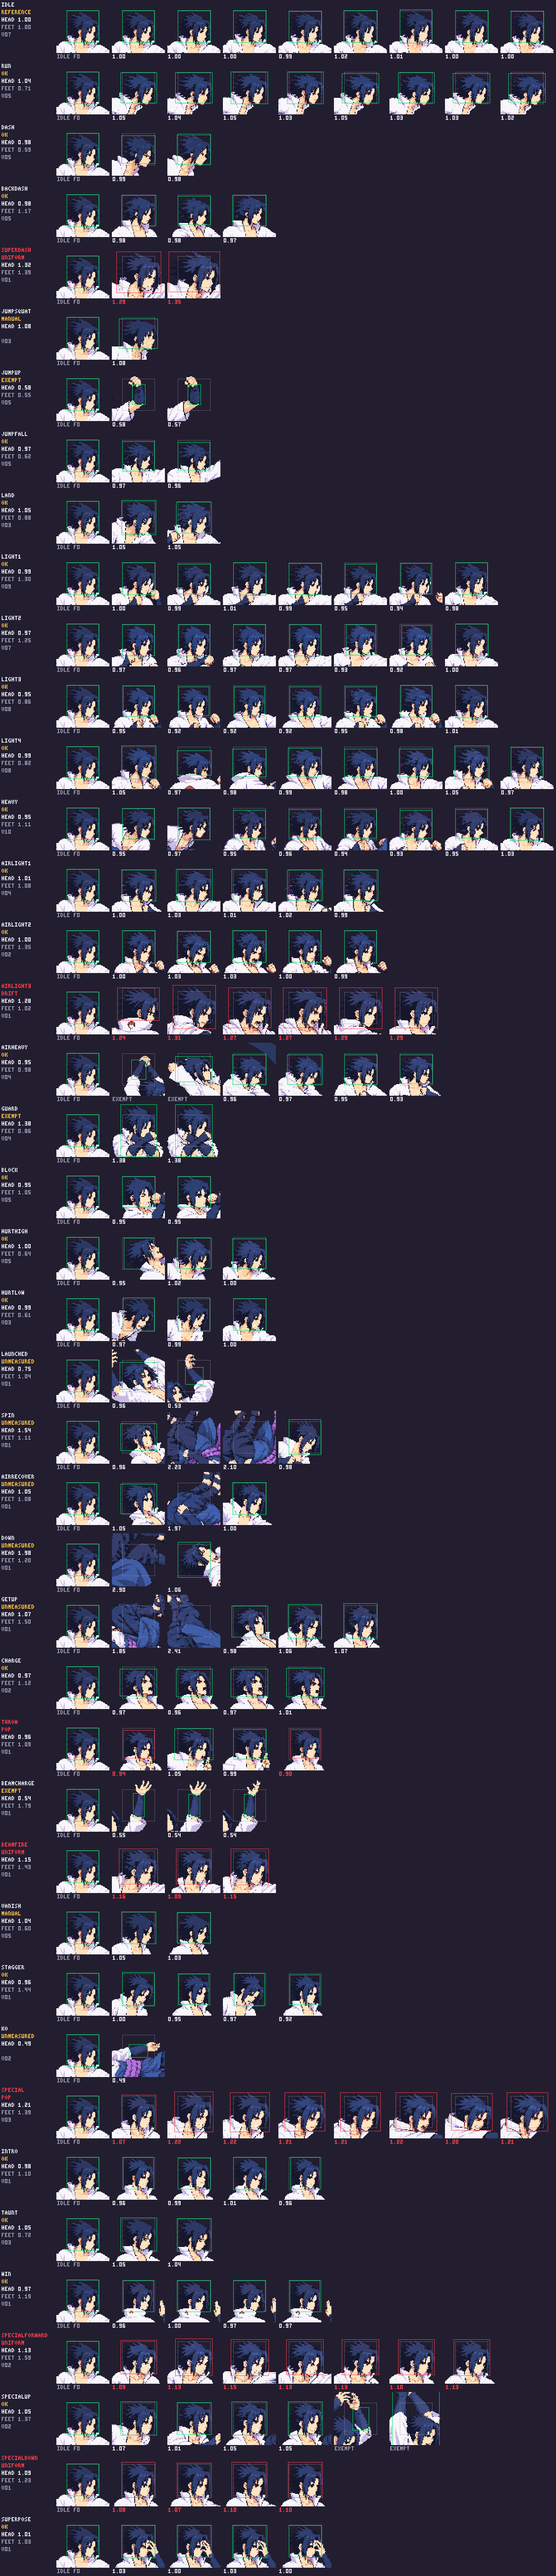
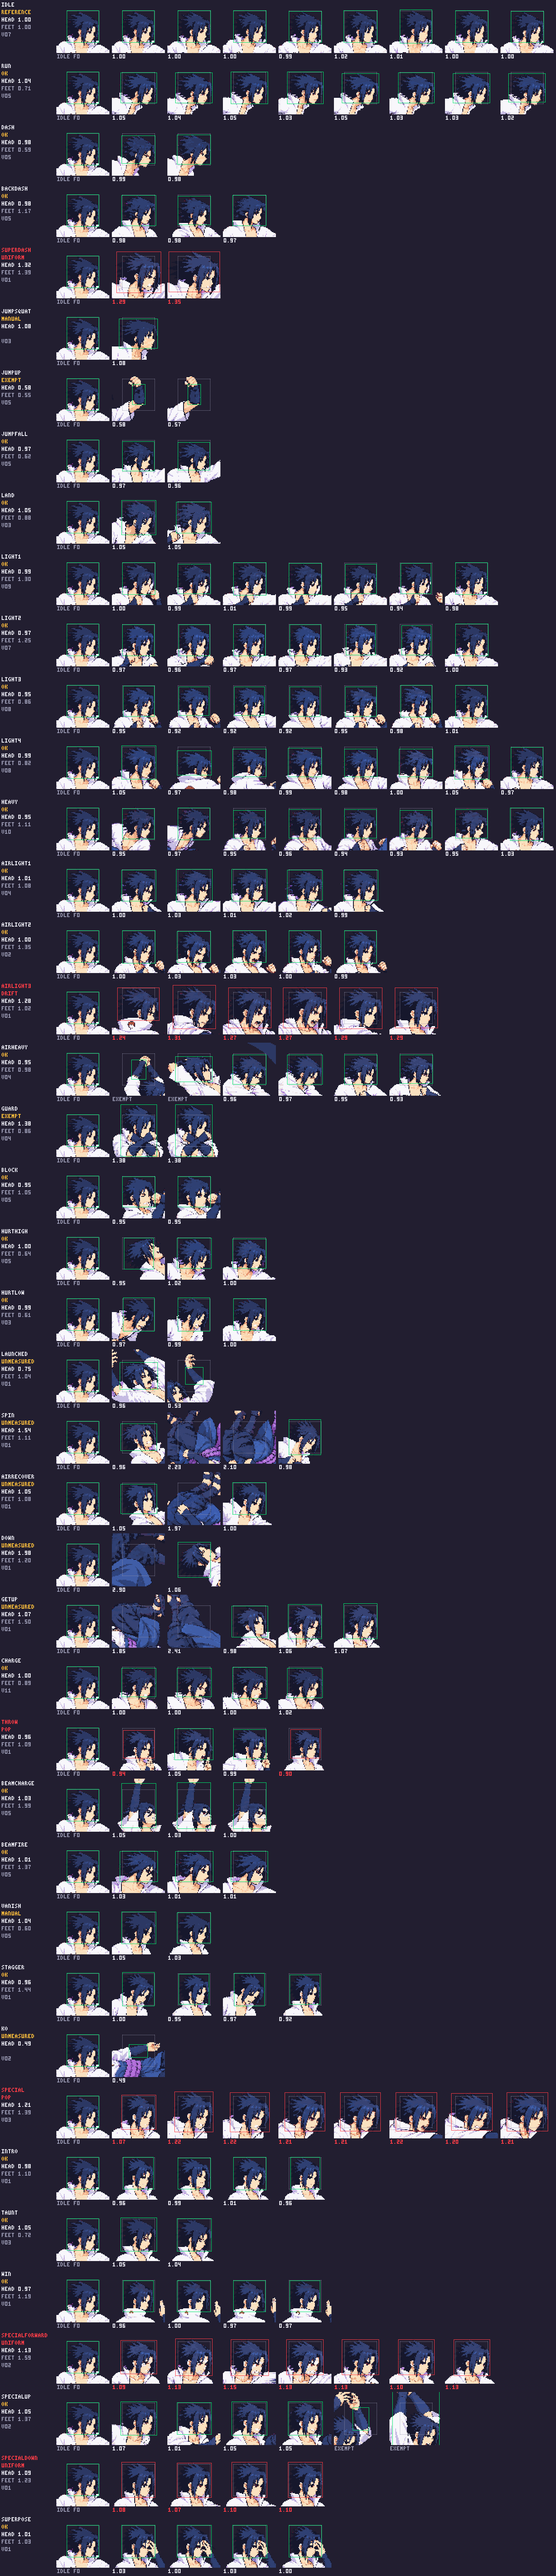
art(sasuke): add title-style charge and beam poses

Changed region(s): [[0.2139, 0.6242, 0.4888, 0.749], [0.5194, 0.6242, 0.5805, 0.6866]]

diff --git a/art/REVIEW.md b/art/REVIEW.md
@@ -53,6 +53,14 @@ Status values: `needs review` · `approved` · `rejected`.
 
 | date | character | asset | file | version | status | what changed | QA notes |
 |---|---|---|---|---|---|---|---|
+| 2026-10-11 | sasuke | charge | [charge_v11.png](characters/sasuke/raw/charge_v11.png) | v11 | needs review | Four-frame planted power-up with narrowed head and stable cloth motion. | 48-color gate passes with measured auto-head fit 1.0638; native [cells](characters/sasuke/production/title-style/packed-charge-v11.png), [QA](characters/sasuke/production/title-style/QA.md). Full-set review pending. |
+| 2026-10-11 | sasuke | beamCharge | [beamCharge_v05.png](characters/sasuke/raw/beamCharge_v05.png) | v05 | needs review | Three-frame raised open-palm charge, hand centered over head. | 48-color numeric head pass 1.03; palm skin x106–124,y13–36 across cells, center within historical target. Nine specks removed; native [cells](characters/sasuke/production/title-style/packed-beamCharge-v05.png), [QA](characters/sasuke/production/title-style/QA.md). Full-set review pending. |
+| 2026-10-11 | sasuke | beamFire | [beamFire_v05.png](characters/sasuke/raw/beamFire_v05.png) | v05 | needs review | Three-frame straight rightward open-palm energy release. | 48-color numeric scale pass and no clip; palm skin x240–244,y90–113 misses historical contact x212–234,y108–130. Claude contact/hurtbox review hold; native [cells](characters/sasuke/production/title-style/packed-beamFire-v05.png), [QA](characters/sasuke/production/title-style/QA.md). Full-set review pending. |
+| 2026-10-11 | sasuke | charge | [charge_v10.png](characters/sasuke/raw/_rejected/charge_v10.png) | v10 | rejected | First title-style power-up source. | Head probe 1.14× idle; v11 corrected head and uses measured fit. |
+| 2026-10-11 | sasuke | beamCharge | [beamCharge_v04.png](characters/sasuke/raw/_rejected/beamCharge_v04.png) | v04 | rejected | Raised hand moved toward head. | Palm remained y30–49 after pack, below target; v05 lifted it. |
+| 2026-10-11 | sasuke | beamCharge | [beamCharge_v03.png](characters/sasuke/raw/_rejected/beamCharge_v03.png) | v03 | rejected | First raised-hand title-style source. | Palm x69–88 while target is centered x104–132; v05 corrected placement. |
+| 2026-10-11 | sasuke | beamFire | [beamFire_v04.png](characters/sasuke/raw/_rejected/beamFire_v04.png) | v04 | rejected | Smaller head with straight rightward palm. | Numeric head pass, but palm x247–249,y78–101 reaches too high and near cell margin; v05 lowered/shortened arm. |
+| 2026-10-11 | sasuke | beamFire | [beamFire_v03.png](characters/sasuke/raw/_rejected/beamFire_v03.png) | v03 | rejected | First title-style beam release source. | Head 1.24× idle and palm far outside historical contact zone; v05 improves both. |
 | 2026-10-11 | sasuke | block | [block_v05.png](characters/sasuke/raw/block_v05.png) | v05 | needs review | Third title-style blocked-hit recoil and crossed-guard settle. | 48-color new-strip gate passes without clipping or exemption. [Actual packed cells](characters/sasuke/production/title-style/packed-block-v05.png) · [heads sheet](scale/heads-sasuke.png) · [QA](characters/sasuke/production/title-style/QA.md). Full-set review pending. |
 | 2026-10-11 | sasuke | taunt | [taunt_v03.png](characters/sasuke/raw/taunt_v03.png) | v03 | needs review | Two-frame red-eyed beckoning challenge. | 48-color new-strip gate passes without clipping/exemption. [Actual packed cells](characters/sasuke/production/title-style/packed-taunt-v03.png) · [QA](characters/sasuke/production/title-style/QA.md). Full-set review pending. |
 | 2026-10-11 | sasuke | vanish | [vanish_v05.png](characters/sasuke/raw/vanish_v05.png) | v05 | needs review | Third title-style crouch/stretch teleport with solid lower-leg afterimage slices. | 48-color pack uses v05-only **manual** low-confidence anatomy finding after native face/torso/limb inspection; not numeric. Two distant stray marks dropped, no clipping. [Actual packed cells](characters/sasuke/production/title-style/packed-vanish-v05.png) · [QA](characters/sasuke/production/title-style/QA.md). Full-set review pending. |

diff --git a/docs/TASKS.md b/docs/TASKS.md
@@ -20,7 +20,7 @@ The single list of work in flight, shared by the user, Claude and Codex. The pro
 
 ## Milestone M2: training, input, hit accuracy (v0.3.0)
 
-**ART-SAS-TITLE-20261011**, Codex, in-progress. files: art/characters/sasuke/, art/manifest.json, art/TRACKER.md, art/REVIEW.md, art/scale/heads-sasuke.png, public/characters/sasuke/, docs/TASKS.md, CHANGELOG.md. User approved title-style draft and scaled pilot, authorized all 42 animations plus 3 UI without intermediate image gates. Branch `art/sasuke-title-production`, real sparse worktree and draft PR #71 with committed WIP preview. 21/42 animations now have provisional title-style native packed QA: idle, run, dash, backDash, jumpSquat, jumpUp, jumpFall, land, light1-4, heavy, airLight1, airHeavy, guard, block, hurtHigh, hurtLow, vanish and taunt. Attack endpoints use measured generated idle f0 source for the approved open-palm recovery stance. AirHeavy v04 and jumpUp v05 head-mask exemptions plus jumpSquat v03 and vanish v05 low-confidence acceptances are manual/version-only; jumpUp numeric 0.58/0.55 remains unresolved. Down/KO new-style v04/v05 kept original poses but failed clip/anatomy checks after three imagegen attempts; launched v03-v05 failed pose/scale proof after three attempts; all archived, originals still pack pending technical review of user-preferred original down/KO grounding. Earlier candidates remain archived with reasons in REVIEW.md. Live equal-depth idle/custom-sheet load passed. Full batch, three UI, user final review and Claude integration remain open.
+**ART-SAS-TITLE-20261011**, Codex, in-progress. files: art/characters/sasuke/, art/manifest.json, art/TRACKER.md, art/REVIEW.md, art/scale/heads-sasuke.png, public/characters/sasuke/, docs/TASKS.md, CHANGELOG.md. User approved title-style draft and scaled pilot, authorized all 42 animations plus 3 UI without intermediate image gates. Branch `art/sasuke-title-production`, real sparse worktree and draft PR #71 with committed WIP preview. 24/42 animations now have provisional title-style native packed QA: idle, run, dash, backDash, jumpSquat, jumpUp, jumpFall, land, light1-4, heavy, airLight1, airHeavy, guard, block, hurtHigh, hurtLow, vanish, taunt, charge, beamCharge and beamFire. Attack endpoints use measured generated idle f0 source for the approved open-palm recovery stance. AirHeavy v04 and jumpUp v05 head-mask exemptions plus jumpSquat v03 and vanish v05 low-confidence acceptances are manual/version-only; jumpUp numeric 0.58/0.55 remains unresolved. Charge v11 uses measured auto-head fit. BeamFire v05 passes anatomy/scale but misses historical contact x212–234,y108–130 with visible palm x240–244,y90–113; Claude contact/hurtbox validation is held. Down/KO new-style v04/v05 kept original poses but failed clip/anatomy checks after three imagegen attempts; launched v03-v05 failed pose/scale proof after three attempts; all archived, originals still pack pending technical review of user-preferred original down/KO grounding. Earlier candidates remain archived with reasons in REVIEW.md. Live equal-depth idle/custom-sheet load passed. Full batch, three UI, user final review and Claude integration remain open.
 
 Cast proportion review: **ART-CAST-SAMPLES**, Codex, review. User requested a quick sample checkpoint before the full frame audit. Branch `art/cast-scale-samples` compares production-matched sprites, Naruto guard/block/spot-dodge head crops, and approved turnarounds. No art approvals or gameplay changes. Full audit paused for user feedback; Claude owns integration.
 

diff --git a/art/characters/sasuke/production/title-style/QA.md b/art/characters/sasuke/production/title-style/QA.md
@@ -102,6 +102,12 @@ User-approved source: `reference/title_style_draft_v01.png`, plus the 256 px neu
 - Taunt v03 passed the 48-color new-strip gate without clipping or exemption on its first attempt. [Actual packed cells](packed-taunt-v03.png) show a red-eyed, upright challenge with the lead palm turning from open to curled, stable adult build and y240 sandals.
 - Vanish v03/v04 used a tiny crouch next to a much taller stretched pose and could not be certified by the low-confidence afterimage scale probe. The third imagegen attempt v05 corrected the source-size relationship, with only small solid lower-leg slices in f1. A temporary diagnostic 48-color atlas allowed [native inspection](packed-vanish-v05.png): exposed face-skin widths are idle 23 px, f0 25 px and f1 22 px; the neck-to-rope torso and complete long legs stay at one anatomical scale while crouch and toe-rise alter the silhouette. The packer dropped two stray marks far from the body. Its v05-only `scaleManualQA` is an explicit **manual acceptance**, not a numeric pass; the afterimage probe remains low confidence. No clipping in the written pack.
 
+## Charge and beam attacks
+
+- Charge v10 was too large at the head (1.14× idle). The second imagegen attempt, v11, reduced the head while keeping the adult torso and legs. Its source head reads 0.94×, so the versioned `auto-head` sidecar applies a measured 1.0638 fit. The final 48-color gate exits 0 with no clip; [all four actual atlas cells](packed-charge-v11.png) hold planted y240 sandals, stable head/torso and a small cloth pulse. This is a measured fit, not a manual exemption.
+- BeamCharge v03 positioned the palm left of the head at x69–88; v04 moved it inward but left it at y30–49. The third imagegen attempt v05 passes the numeric head gate at 1.03× idle without a fit or exemption. In [the actual 48-color cells](packed-beamCharge-v05.png), raised skin occupies x106–124 and y13–36 across frames, with its palm center in the historical x104–132,y8–30 zone. The sleeve, shoulder and hand remain connected; planted feet and torso hold one scale. The packer removed nine detached specks.
+- BeamFire v03 had a 1.24× head and palm beyond the contact target. v04 corrected head scale but placed palm near the right margin at x247–249,y78–101. The third imagegen attempt v05 passes the numeric 48-color head gate without a fit/exemption or clipping and [all three actual cells](packed-beamFire-v05.png) keep the same rightward open-palm release. The visible skin reaches x240–244,y90–113; the historical contact zone is x212–234,y108–130. This is a **contact-zone hold** for Claude's formal contact/hurtbox validation against the changed approved stature, not an anatomy failure or a claimed contact pass. Four detached specks were removed. These candidates await the user's full-set visual review.
+
 ## Remaining checks
 
 The escalated local Vite adapter served port 5222. The in-app browser showed two Sasuke fighters at the same game depth with the new idle, matched apparent height and grounded feet. The console logged `[sprites] using custom sheet for sasuke (42 animations)` and no errors. The production build passed (80 modules) and the adapter's HTTP self-check returned four 200 responses. Full production, full-character strict scale, contact/hurtbox validation, user image approval, integration and deployment remain open.

diff --git a/art/TRACKER.md b/art/TRACKER.md
@@ -150,9 +150,9 @@ Sprite Lab; if his hair adds clearly less height and his head comes out bigger, 
 | 6 | launched | 2 | - | **yes** | 136 | approved | v05 | v01 | Title-style v03-v05 rejected after three imagegen attempts: first two too horizontal, v05 closer to arched pose but open-eyed/calm and one-scale anatomy unproven under the low-confidence gate. No exemption; old approved v01 remains packed. |
 | 6 | down | 2 | - | **yes** | 96 | approved | v05 | v01 | Title-style v04/v05 preserved original slam and straight-leg down poses but were rejected after three imagegen attempts: clip, low-confidence anatomy and lying contact warnings. Original approved v01 remains packed; technical redraw guidance needed. [QA](characters/sasuke/production/title-style/QA.md). |
 | 6 | getup | 5 | - | **yes** | 204 | approved | v01 | v01 | User approved the final batch 2026-10-10 (chat with Claude, PR #9). |
-| 7 | charge | 4 | - | **yes** | 198 | approved | v04 | v02 | User rejected new charge; approved v02 active. v03/v04 archived; v04 is historical newest, not active. |
-| 7 | beamCharge | 3 | - | **yes** | 198 | approved | v01 | v01 | User approved the final batch 2026-10-10 (chat with Claude, PR #9). |
-| 7 | beamFire | 3 | - | **yes** | 198 | approved | v01 | v01 | User approved the final batch 2026-10-10 (chat with Claude, PR #9). |
+| 7 | charge | 4 | - | **yes** | 198 | approved | v11 | v02 | Title-style v11 candidate passes 48-color gate with measured auto-head fit 1.0638; all four native cells inspected. v10 archived; old v02 approval remains active pending full-set review. |
+| 7 | beamCharge | 3 | - | **yes** | 230 | approved | v05 | v01 | Title-style v05 candidate numeric head pass 1.03; palm above head and native cells inspected. v03/v04 archived; old v01 approved. |
+| 7 | beamFire | 3 | - | **yes** | 198 | approved | v05 | v01 | Title-style v05 candidate numeric scale pass; palm x240–244,y90–113 needs Claude contact-zone validation against historical x212–234,y108–130. v03/v04 archived; old v01 approved. |
 | 7 | special | 8 | 3/3/2 | **yes** | 204 | approved | v03 | v03 | User approved latest version 2026-10-10; documented QA deviations accepted. Ready for integration. |
 | 8 | dash | 2 | - | **yes** | 160 | approved | v05 | v01 | Title-style v05 candidate passes 48-color new-strip gate without clipping or exemption; v03 clipped/head-popped and v04 had enlarged head. Actual two-frame atlas QA. Old v01 remains approved pending final-set review. |
 | 8 | jumpUp | 2 | - | **yes** | 198 | approved | v05 | v01 | Title-style v05 candidate: actual atlas skull/torso/limb visual comparison supports a v05-only manual exemption of the airborne-tuck 0.58 head/0.55 feet proxy; this is not a numeric pass. v03/v04 archived. Old v01 remains approved pending final-set review. |

diff --git a/CHANGELOG.md b/CHANGELOG.md
@@ -10,6 +10,7 @@ Every change adds a line under **Unreleased** in the right group: Added, Changed
 Fixed, Security. Reference task ids and ADRs where useful.
 
 ## [Unreleased]
+- art(sasuke): add title-style charge v11, beamCharge v05 and beamFire v05 with 48-color native atlas QA; record beamFire's historical contact-zone hold and archive five earlier power-pose candidates.
 - art(sasuke): add title-style block and Sharingan taunt with numeric pack passes, and vanish with versioned manual afterimage QA; archive four oversized or mismatched candidates.
 - art(sasuke): add title-style jump squat, falling loop and landing with actual atlas QA; document the crouch's manual low-confidence scale finding and archive two falling rejects.
 - art(sasuke): add title-style dash v05 and backDash v05, plus jumpUp v05 with a documented manual airborne-tuck scale exemption; archive five failed movement candidates.
